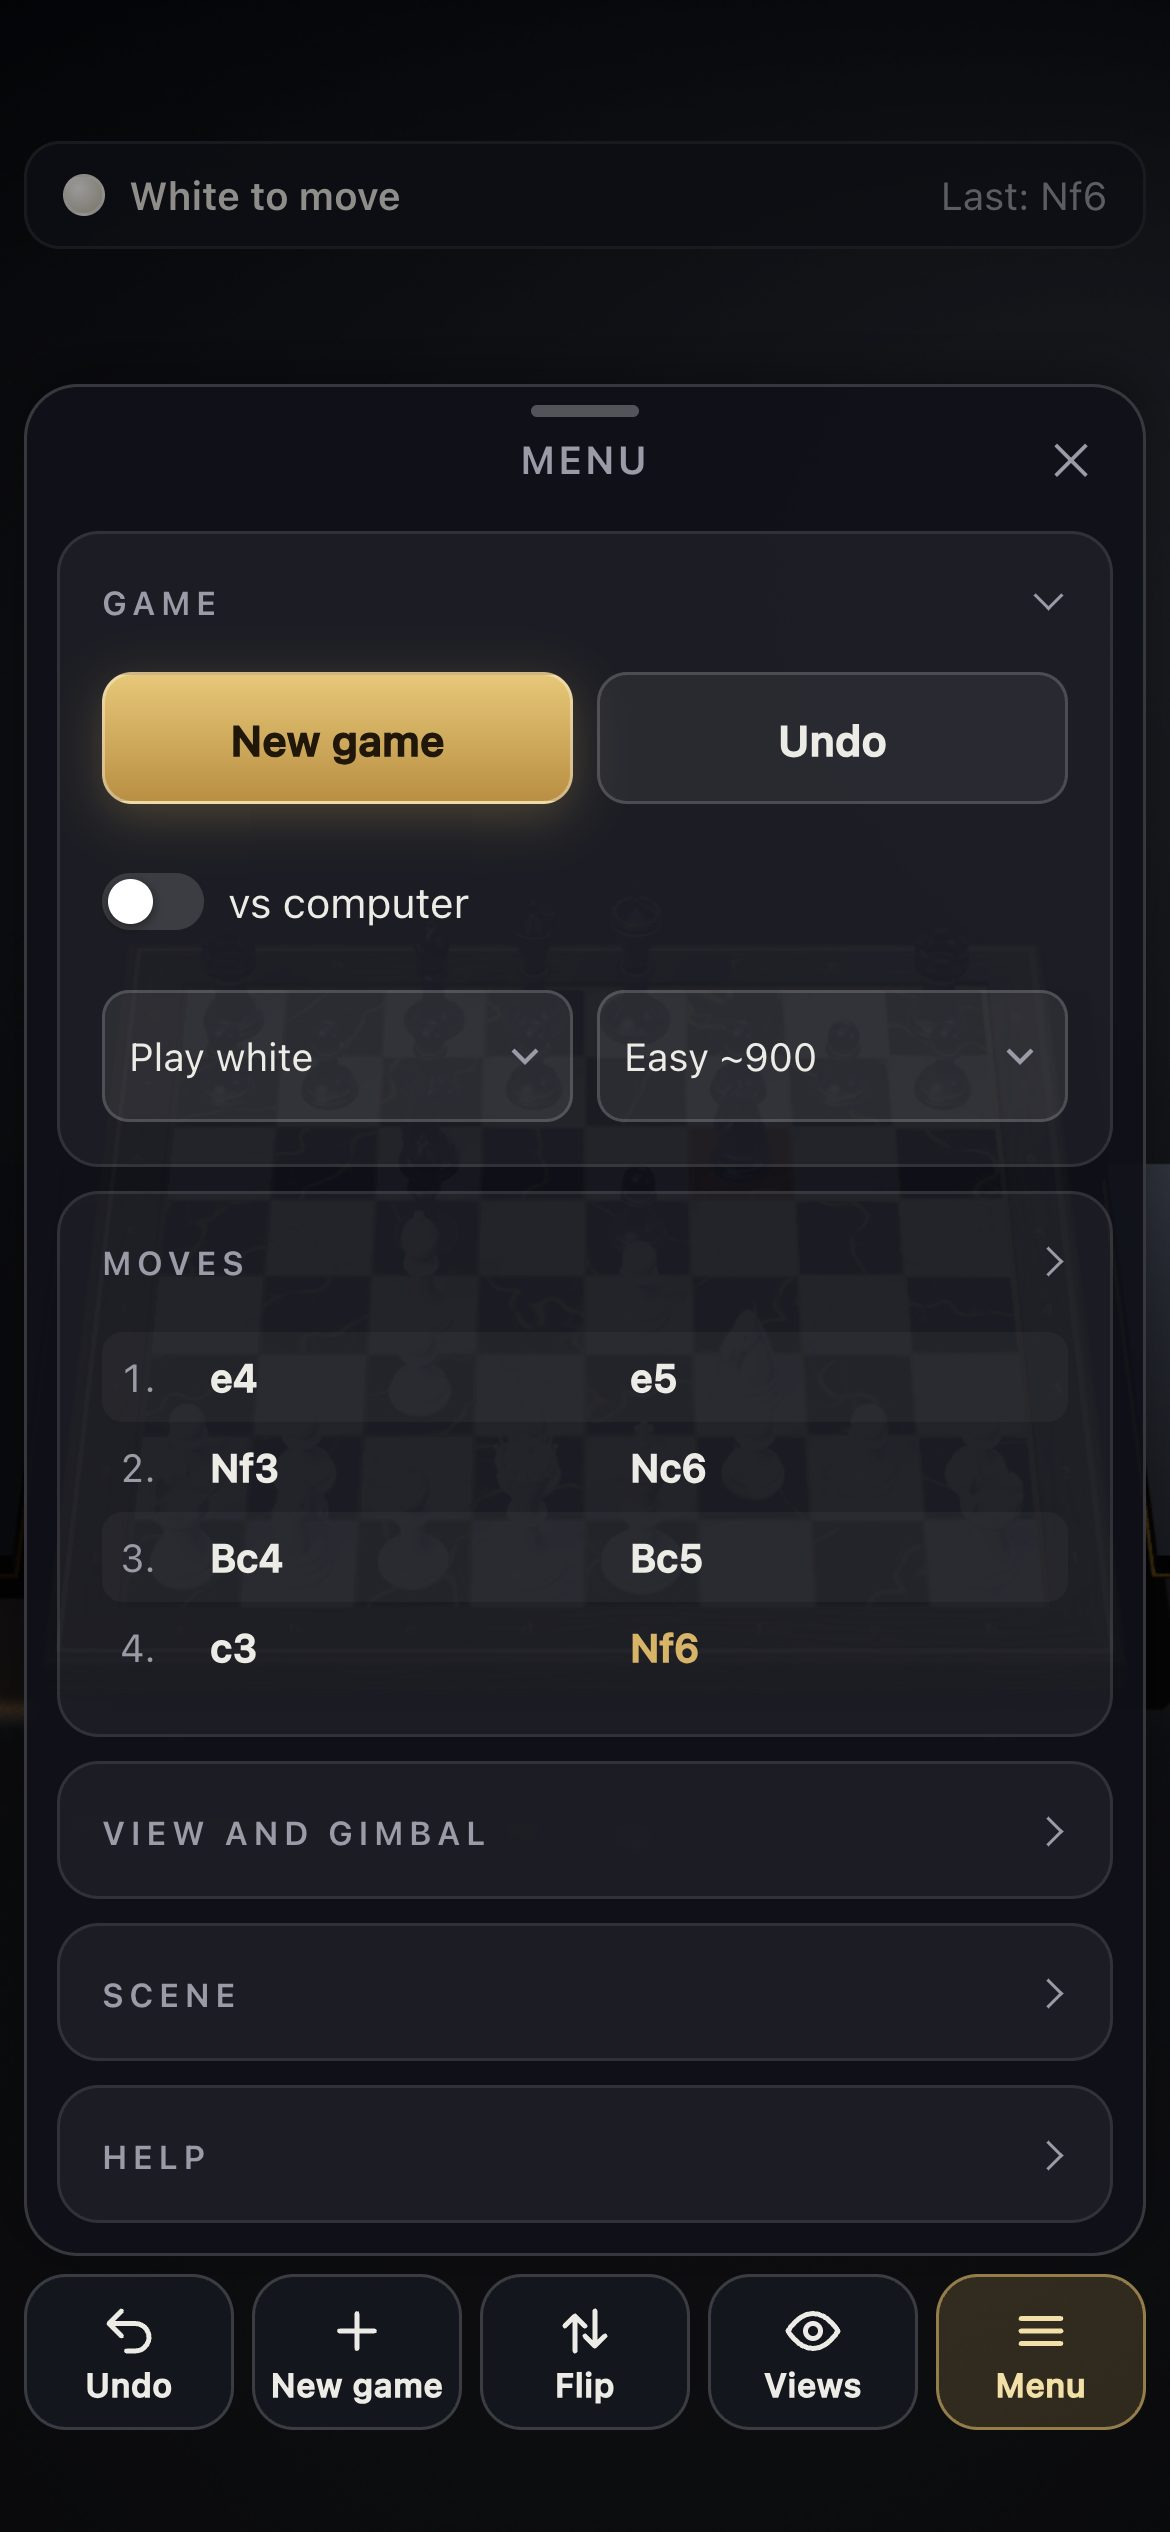
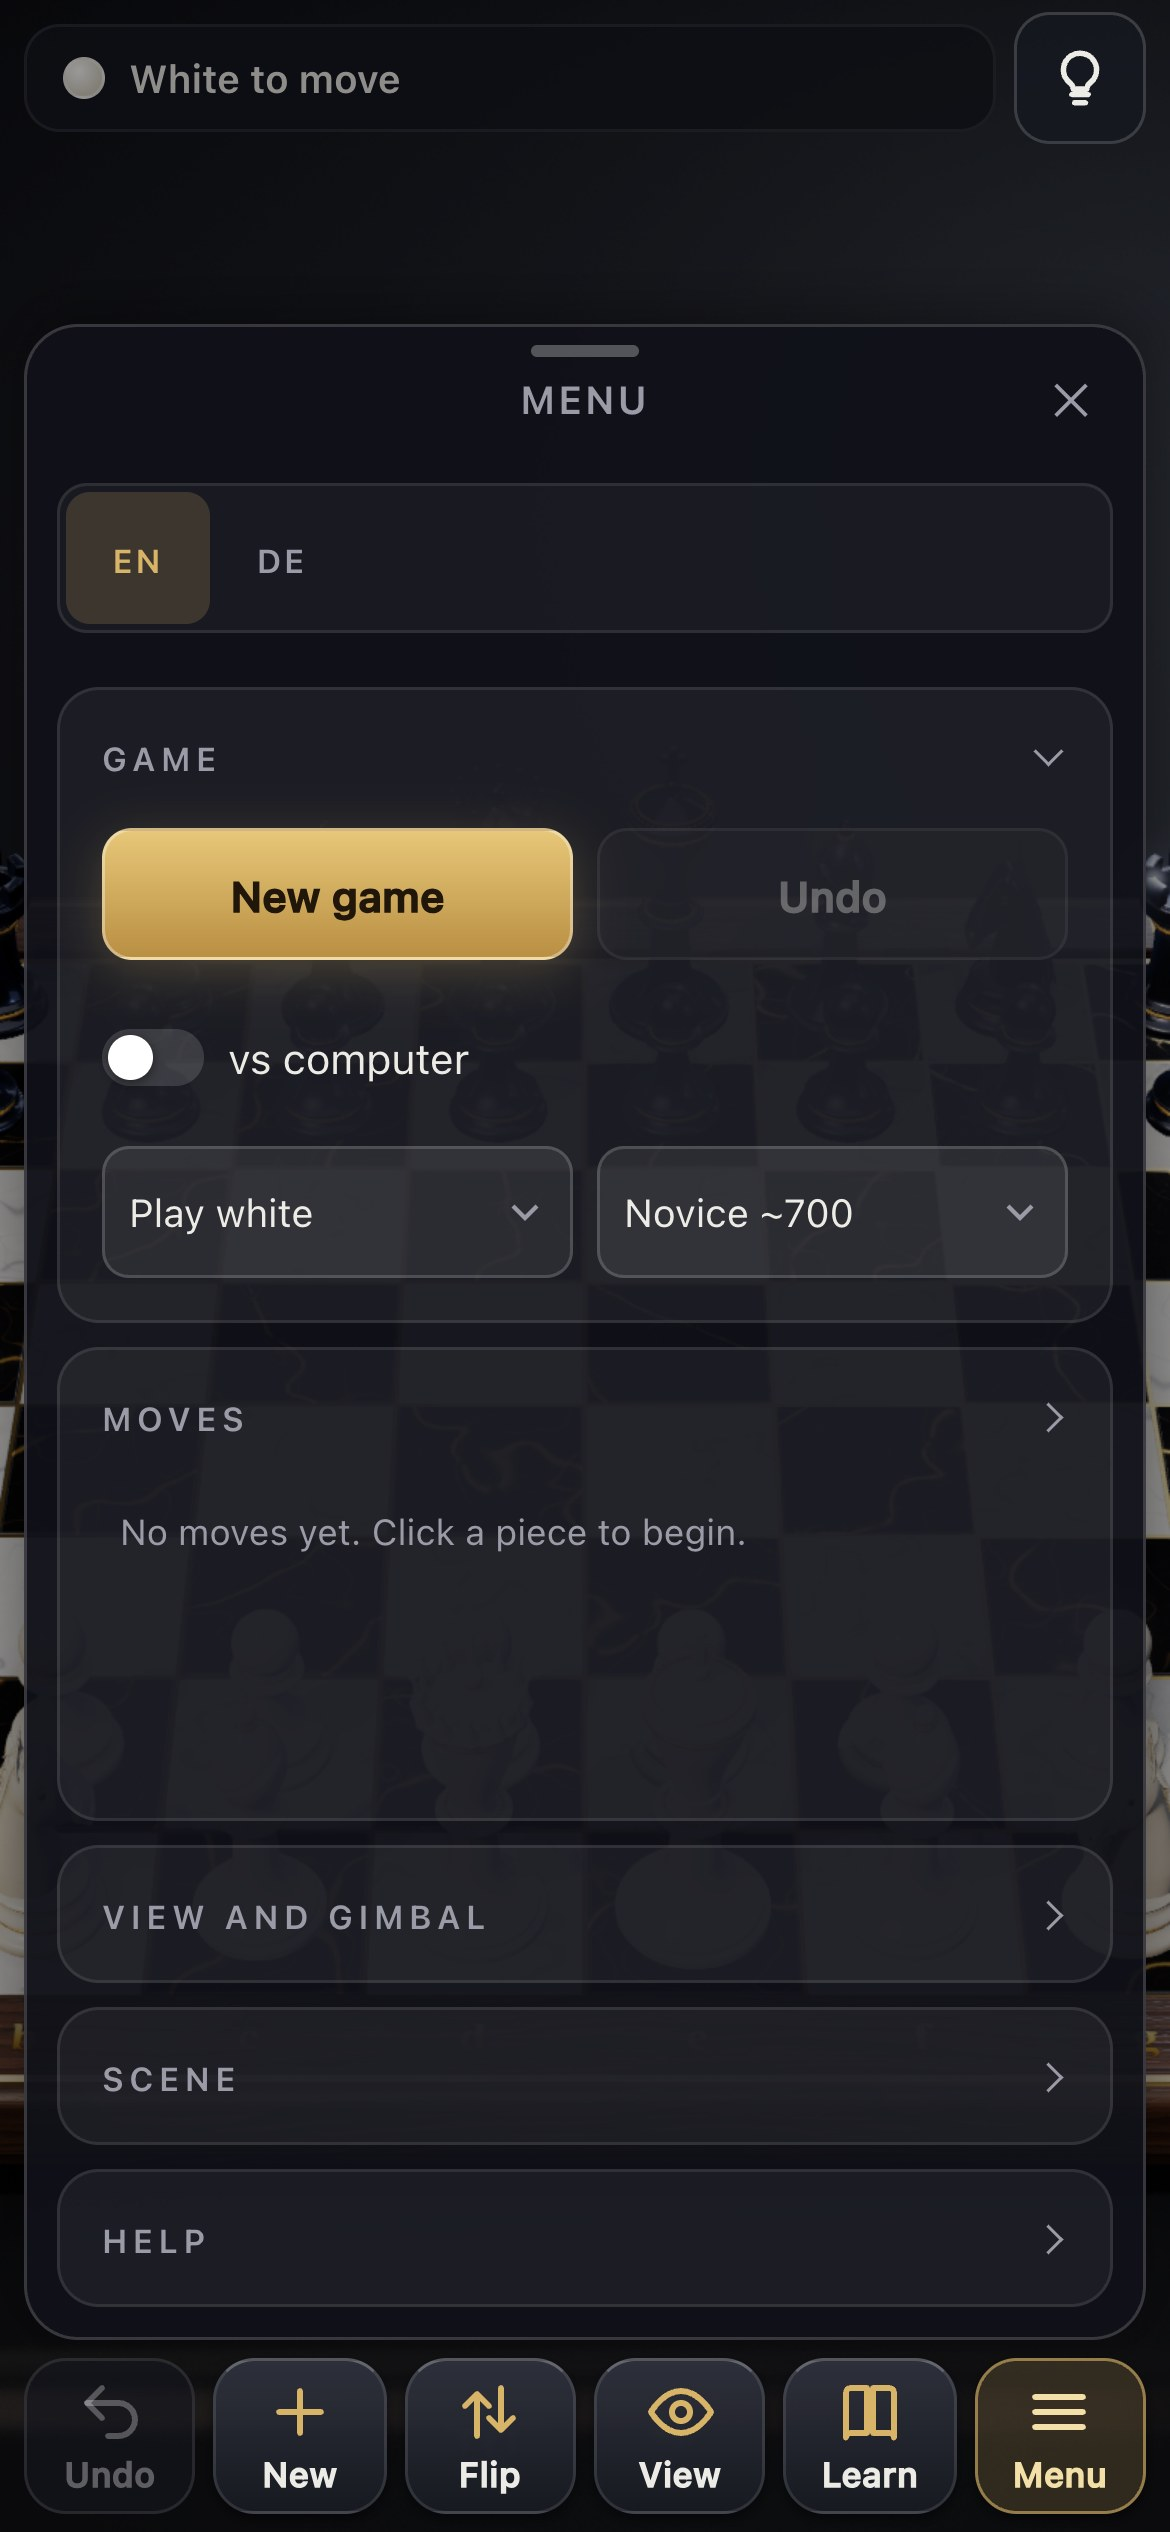
v1.2.0: version, README and fresh docs shots

diff --git a/README.md b/README.md
@@ -12,11 +12,21 @@ Built with three.js (0.186) and Vite. Everything is procedural: the geometry com
 
 ![Top down view](docs/topdown.jpg)
 
-On a phone, in portrait: the game with its thumb bar, and the Menu sheet.
+The Spielsteine view (named Tokens in English): a flat top view with every piece as a thick gold turned disc.
+
+![Tokens view](docs/tokens.jpg)
+
+The Puzzles tab: a path of ten stations per chapter, gold for a clean solve, silver for one that needed help.
+
+![The puzzle path](docs/puzzles-path.jpg)
+
+On a phone, in portrait: the game with its thumb bar, the Menu sheet, a lesson running with the learning bar, and the puzzle path.
 
 <p>
-  <img src="docs/phone-portrait.jpg" alt="Phone, portrait: status line, board and thumb bar" width="300">
-  <img src="docs/phone-menu.jpg" alt="Phone, portrait: the Menu sheet" width="300">
+  <img src="docs/phone-portrait.jpg" alt="Phone, portrait: status line, board and thumb bar" width="240">
+  <img src="docs/phone-menu.jpg" alt="Phone, portrait: the Menu sheet" width="240">
+  <img src="docs/phone-learning.jpg" alt="Phone, portrait: an opening lesson with the learning bar" width="240">
+  <img src="docs/phone-puzzles.jpg" alt="Phone, portrait: the puzzle path in the Learn sheet" width="240">
 </p>
 
 ## Openings
@@ -98,7 +108,7 @@ Sliders and buttons (left panel)
 
 Home Screen: on an iPhone or iPad the game can be added to the Home Screen from Safari (Share, then Add to Home Screen) and then runs full screen with its own icon (a web app manifest, no service worker). In a Safari tab it shows a short reminder with the three steps once after the first load, and at most twice more a few visits later. Later or a tap outside closes it at once. It never shows when the game is already installed, on desktop, or with any URL parameter below. The link preview used by chat apps and social sites is `public/og-image.png`.
 
-Touch: a tap selects and moves (a tap just next to a legal square counts for it), a one finger drag orbits the camera, two fingers pinch to zoom and twist to turn the board, and the sliders tilt it. Lock view stops all camera gestures. On a phone the game has a status line on top, a thumb bar with big icons and one short word each (Undo, New, Flip, View, Learn, Menu), and a Menu sheet with the game settings, the move list, the view and the help. Portrait and landscape both work.
+Touch: a tap selects and moves (a tap just next to a legal square counts for it), a one finger drag orbits the camera, two fingers pinch to zoom and twist to turn the board, and the sliders tilt it. Lock view stops all camera gestures. On a phone, while a lesson, a drill, a Practise session or a puzzle runs, the thumb bar turns into the learning controls (for example Back, Show me, Hint and End), the view stays on Play and a short text card sits on top; End gives the normal bar back. Otherwise the game has a status line on top, a thumb bar with big icons and one short word each (Undo, New, Flip, View, Learn, Menu), and a Menu sheet with the game settings, the move list, the view and the help. Portrait and landscape both work.
 
 ## Features
 
@@ -112,6 +122,7 @@ Rules
 
 Rendering
 
+- A short start sequence: a king turns slowly, then the board builds itself. Skip it with `?intro=0`; it is also off with the system setting reduce motion
 - Board of white and black marble squares in a walnut frame with a gold inlay, coordinate labels, a plinth and a captured-piece tray on each side of the board
 - Sculpted Staunton pieces: a lathe turned pawn, rook, bishop, queen and king and a modelled knight head. 58k to 83k triangles per piece type
 - Five themes (Classic, Tournament, Wood, Metal, Glass), each one bundle of board squares, frame, inlay, pieces and lighting. The piece shapes stay, only materials and colours change. The textures are built on the first pick of a theme and freed again when you leave it. Glass uses real transmission only on the High quality tier; Low and Medium get a tinted lacquer look that costs nothing extra
